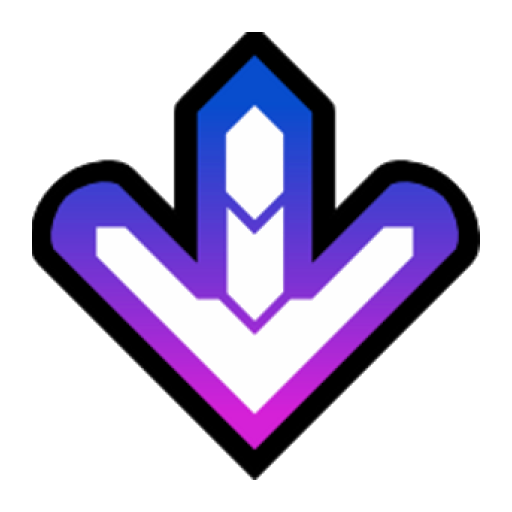
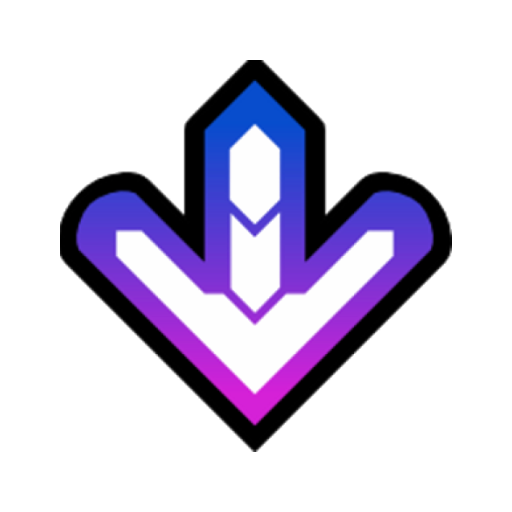
change the imagebutton with the transparent arrows

Changed region(s): [[0.0625, 0.0625, 0.9375, 0.9375]]

diff --git a/app/src/main/java/com/iems5722/partytime/PatternActivity.java b/app/src/main/java/com/iems5722/partytime/PatternActivity.java
@@ -7,6 +7,7 @@ import android.os.CountDownTimer;
 import android.util.Log;
 import android.view.View;
 import android.widget.Button;
+import android.widget.ImageButton;
 import android.widget.TextView;
 
 import java.util.ArrayList;
@@ -22,7 +23,7 @@ public class PatternActivity extends PortraitOnlyActivity {
     final int gameTime = 10;
 
     TextView scoreView, timeView, instructionView;
-    Button upButton, downButton, leftButton, rightButton;
+    ImageButton up, down, left, right;
 
     final int maxArrowSize = 5;
     int score = 0;
@@ -108,7 +109,7 @@ public class PatternActivity extends PortraitOnlyActivity {
         }
     }
 
-    private void buttonChangeBG(final Button button, final Boolean flag) {
+    private void buttonChangeBG(final ImageButton button, final Boolean flag) {
         new CountDownTimer(100, 10) {
 
             public void onTick(long millisUntilFinished) {
@@ -120,7 +121,7 @@ public class PatternActivity extends PortraitOnlyActivity {
             }
 
             public void onFinish() {
-                button.setBackgroundColor(Color.LTGRAY);
+                button.setBackgroundColor(Color.TRANSPARENT);
             }
         }.start();
     }
@@ -145,14 +146,10 @@ public class PatternActivity extends PortraitOnlyActivity {
         timeView = (TextView) this.findViewById(R.id.timeView);
         instructionView = (TextView) this.findViewById(R.id.instructionView);
 
-        upButton = (Button) this.findViewById(R.id.upButton);
-        upButton.setBackgroundColor(Color.LTGRAY);
-        downButton = (Button) this.findViewById(R.id.downButton);
-        downButton.setBackgroundColor(Color.LTGRAY);
-        leftButton = (Button) this.findViewById(R.id.leftButton);
-        leftButton.setBackgroundColor(Color.LTGRAY);
-        rightButton = (Button) this.findViewById(R.id.rightButton);
-        rightButton.setBackgroundColor(Color.LTGRAY);
+        up = (ImageButton) this.findViewById(R.id.up);
+        down = (ImageButton) this.findViewById(R.id.down);
+        left = (ImageButton) this.findViewById(R.id.left);
+        right = (ImageButton) this.findViewById(R.id.right);
 
         p1ScoreView = (TextView) this.findViewById(R.id.p1ScoreView);
         p2ScoreView = (TextView) this.findViewById(R.id.p2ScoreView);
@@ -162,39 +159,39 @@ public class PatternActivity extends PortraitOnlyActivity {
         genAndSetArrow();
         showArrow();
 
-        upButton.setOnClickListener(new View.OnClickListener() {
+        up.setOnClickListener(new View.OnClickListener() {
 
             @Override
             public void onClick(View v) {
                 Boolean flag = checkInputArrow("up");
-                buttonChangeBG(upButton, flag);
+                buttonChangeBG(up, flag);
             }
         });
 
-        downButton.setOnClickListener(new View.OnClickListener() {
+        down.setOnClickListener(new View.OnClickListener() {
 
             @Override
             public void onClick(View v) {
                 Boolean flag = checkInputArrow("down");
-                buttonChangeBG(downButton, flag);
+                buttonChangeBG(down, flag);
             }
         });
 
-        leftButton.setOnClickListener(new View.OnClickListener() {
+        left.setOnClickListener(new View.OnClickListener() {
 
             @Override
             public void onClick(View v) {
                 Boolean flag = checkInputArrow("left");
-                buttonChangeBG(leftButton, flag);
+                buttonChangeBG(left, flag);
             }
         });
 
-        rightButton.setOnClickListener(new View.OnClickListener() {
+        right.setOnClickListener(new View.OnClickListener() {
 
             @Override
             public void onClick(View v) {
                 Boolean flag = checkInputArrow("right");
-                buttonChangeBG(rightButton, flag);
+                buttonChangeBG(right, flag);
             }
         });
 
@@ -209,10 +206,10 @@ public class PatternActivity extends PortraitOnlyActivity {
                 timeView.setText("Finish!");
                 isFinish = true;
                 scoreUpdate(0);
-                upButton.setOnClickListener(null);
-                downButton.setOnClickListener(null);
-                leftButton.setOnClickListener(null);
-                rightButton.setOnClickListener(null);
+                up.setOnClickListener(null);
+                down.setOnClickListener(null);
+                left.setOnClickListener(null);
+                right.setOnClickListener(null);
 
                 // return score
                 Intent output = new Intent();
